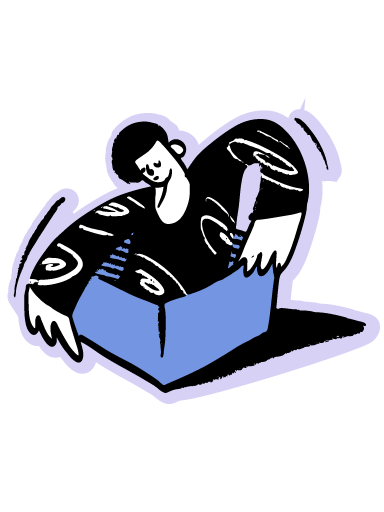
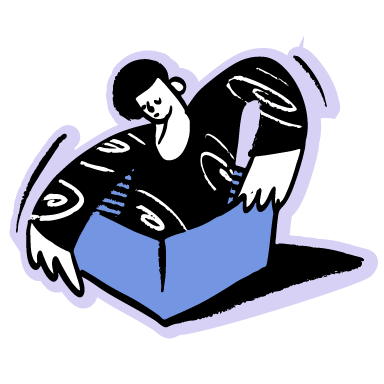
Recreate contact page

Changed region(s): [[0.0, 0.0938, 1.0, 0.9062]]

diff --git a/src/new-components/sections/contact.tsx b/src/new-components/sections/contact.tsx
@@ -1,0 +1,162 @@
+import { useMemo } from 'react';
+import tw from 'twin.macro';
+
+import { SectionHeading } from '~/new-components/atoms/complex';
+import { Link, CenteredSection, Image } from '~/new-components/atoms/simple';
+import { Component } from '~/types';
+import getRandomItemFrom from '~/utils/get-random-item';
+
+const Grid = tw.div`
+  grid
+  grid-cols-1
+  gap-24
+  mb-10
+
+  md:(grid-template-columns[55% 1fr])
+`;
+
+const ContactOptionsContainer = tw.div`
+  mt-16
+  flex
+  flex-col
+  items-start
+  gap-8
+`;
+
+const EmailLink = tw(Link)`
+  color[#d33c30] hocus:(color[#a42f25])
+  dark:(color[#ee695d] hocus:(color[#ea4335]))
+`;
+
+const TwitterLink = tw(Link)`
+  color[#1a91da] hocus:(color[#1471a9])
+  dark:(color[#1da1f2] hocus:(color[#1781c2]))
+`;
+
+const TelegramLink = tw(Link)`
+  color[#007ab8] hocus:(color[#005f8f])
+  dark:(color[#33a0d6] hocus:(color[#0088cc]))
+`;
+
+const DiscordLink = tw(Link)`
+  color[#5865f2] hocus:(color[#4651c2])
+  dark:(color[#8a93f6] hocus:(color[#6974f3]))
+`;
+
+type ContactImage = {
+  key: string;
+  alt: string;
+};
+
+const allContactImages: Array<ContactImage> = [
+  {
+    key: '0',
+    alt: 'Illustration of a person within a box',
+  },
+  {
+    key: '1',
+    alt: 'Illustration of a person dancing',
+  },
+  {
+    key: '2',
+    alt: 'Illustration of a person meditating',
+  },
+  {
+    key: '3',
+    alt: 'Illustration of a person sitting on the floor',
+  },
+  {
+    key: '4',
+    alt: 'Illustration of a person reading a book',
+  },
+  {
+    key: '5',
+    alt: 'Illustration of a person listening to music',
+  },
+  {
+    key: '6',
+    alt: 'Illustration of a person walking',
+  },
+  {
+    key: '7',
+    alt: 'Illustration of a person walking like a zombie',
+  },
+  {
+    key: '8',
+    alt: 'Illustration of a person taking a selfie with a t-shirt that says hi',
+  },
+];
+
+export const Contact: Component = () => {
+  const contactImage = useMemo<ContactImage>(() => {
+    return getRandomItemFrom(allContactImages);
+  }, []);
+
+  return (
+    <CenteredSection id={'contact'}>
+      <SectionHeading
+        size={'3'}
+        shadowColor={'brand'}
+        gradientColor={'brand-to-blue'}
+        emoji={'📬'}
+      >
+        Contact
+      </SectionHeading>
+      <Grid>
+        <ContactOptionsContainer>
+          <p>
+            I&apos;m always open for a conversation, so please don&apos;t
+            hesitate contacting me!
+          </p>
+          <p>There&apos;s a few ways you can get it touch:</p>
+          <ul tw={'list-disc leading-loose padding-inline-start[1.6rem]'}>
+            <li>
+              <EmailLink
+                title={'Link to compose an email to Jahir'}
+                href={'mailto:hola@jahir.dev?subject=Hi%20Jahir!'}
+              >
+                Email
+              </EmailLink>
+            </li>
+            <li>
+              <TwitterLink
+                title={'Link to compose a Twitter direct message for Jahir'}
+                href={'https://jahir.xyz/twitterdm'}
+              >
+                Twitter Direct Messages
+              </TwitterLink>
+            </li>
+            <li>
+              <TelegramLink
+                title={"Link to Jahir's Telegram profile"}
+                href={'https://jahir.xyz/tlgrm'}
+              >
+                Telegram
+              </TelegramLink>
+            </li>
+          </ul>
+          <p>
+            Although if it&apos;s related to{' '}
+            <Link title={'Link to dashbud page'} href={'https://dashbud.dev'}>
+              my dashboards
+            </Link>
+            , I would rather you{' '}
+            <DiscordLink
+              title={'Link to dashboards Discord server'}
+              href={'https://discordapp.com/invite/78h7xgj'}
+            >
+              send a message on Discord
+            </DiscordLink>
+          </p>
+        </ContactOptionsContainer>
+        <Image
+          src={`/static/images/contact/${contactImage.key}.png`}
+          alt={contactImage.alt}
+          size={384}
+          layout={'responsive'}
+          tw={'[>img]:(max-width[320px] mx-auto md:(max-w-unset))'}
+        />
+      </Grid>
+    </CenteredSection>
+  );
+};

diff --git a/src/pages/contact.tsx b/src/pages/contact.tsx
@@ -1,30 +1,17 @@
-import { GetStaticProps } from 'next';
 import { FC } from 'react';
 
 import { Page } from '~/new-components/blocks';
-import { Contact } from '~/sections/contact';
+import { Contact } from '~/new-components/sections';
 
-interface ContactPageProps {
-  reCaptchaKey?: string;
-}
-
-const ContactPage: FC<ContactPageProps> = (props) => {
+const ContactPage: FC = () => {
   return (
     <Page
       title={'Contact ~ Jahir Fiquitiva 💎'}
       exactUrl={'https://jahir.dev/contact'}
     >
-      <Contact reCaptchaKey={props.reCaptchaKey} />
+      <Contact />
     </Page>
   );
 };
 
 export default ContactPage;
-
-export const getStaticProps: GetStaticProps = async () => {
-  return {
-    props: {
-      reCaptchaKey: process.env.RECAPTCHA_KEY || '0',
-    },
-  };
-};

diff --git a/src/utils/get-random-item.ts b/src/utils/get-random-item.ts
@@ -1,4 +1,4 @@
-const getRandomItemFrom = <T extends unknown>(items: T[]): T => {
+const getRandomItemFrom = <T>(items: T[]): T => {
   return items[Math.floor(Math.random() * items.length)];
 };
 

diff --git a/src/new-components/sections/index.ts b/src/new-components/sections/index.ts
@@ -1,3 +1,4 @@
 export * from './home/index';
 export * from './blog';
 export * from './donate/index';
+export * from './contact';
